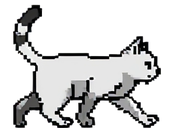
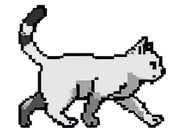
Fix walk animation jitter, scale down cat, fix border positioning
1. Re-aligned all 6 walk frames on consistent body center
   (center-x jitter: 13px → 2px)
2. Added display_scale (0.5) — 174x128 sprite renders at 87x64 on screen,
   higher pixel density = smoother edges
3. Fixed Y positioning: cat feet now sit exactly on window top border
   using display_h instead of raw sprite_h

diff --git a/pet/pet_widget.py b/pet/pet_widget.py
@@ -8,25 +8,33 @@ from pet.state_machine import State, Direction
 class PetCat:
     """Manages cat position, animation frame, and movement.
 
-    This is pure logic — no Qt widgets. The overlay window reads
-    position/frame from here and draws accordingly.
+    display_scale controls how big the cat appears on screen.
+    All position math uses the scaled (display) size.
     """
 
-    WALK_SPEED = 2        # pixels per tick
+    WALK_SPEED = 2
     CHASE_SPEED = 4
     STALK_SPEED = 1
 
-    def __init__(self, sprite_renderer):
+    def __init__(self, sprite_renderer, display_scale=0.5):
         self.renderer = sprite_renderer
+        self.display_scale = display_scale
         self.x = 100
         self.y = 0
         self.frame_index = 0
-        self.ticks_per_frame = 6   # slow down animation (tick = ~33ms at 30fps)
+        self.ticks_per_frame = 6
         self.tick_counter = 0
         self._needs_direction_flip = False
 
+    @property
+    def display_w(self):
+        return int(self.renderer.sprite_w * self.display_scale)
+
+    @property
+    def display_h(self):
+        return int(self.renderer.sprite_h * self.display_scale)
+
     def animation_name(self, state):
-        """Map state enum to sprite animation name."""
         return {
             State.IDLE: "idle",
             State.WALK: "walk",
@@ -36,36 +44,22 @@ class PetCat:
         }.get(state, "idle")
 
     def update(self, state, direction, window_rect, cursor_pos=None):
-        """Move cat and advance animation frame.
-
-        Args:
-            state: current State enum
-            direction: Direction enum (LEFT/RIGHT)
-            window_rect: WindowRect of active window
-            cursor_pos: (x, y) tuple of mouse cursor, or None
-        """
         anim = self.animation_name(state)
 
-        # Advance animation frame
         self.tick_counter += 1
         if self.tick_counter >= self.ticks_per_frame:
             self.tick_counter = 0
             self.frame_index += 1
 
-        # Cat sits on top edge of window
-        self.y = window_rect.top - self.renderer.sprite_h
+        # Cat feet sit on the window's top edge
+        self.y = window_rect.top - self.display_h
 
-        # Movement based on state
         if state == State.WALK:
             self._move_walk(direction, window_rect)
         elif state == State.STALK:
             self._move_stalk(direction, window_rect)
         elif state == State.CHASE and cursor_pos:
             self._move_chase(cursor_pos, window_rect)
-        elif state == State.IDLE:
-            pass  # stay put
-        elif state == State.TRASH_CAN:
-            pass  # stay put, animation plays
 
         return self.get_current_frame(anim)
 
@@ -79,16 +73,16 @@ class PetCat:
 
     def _move_chase(self, cursor_pos, window_rect):
         cx, cy = cursor_pos
-        if cx > self.x + self.renderer.sprite_w // 2:
+        cat_center = self.x + self.display_w // 2
+        if cx > cat_center:
             self.x += self.CHASE_SPEED
-        elif cx < self.x + self.renderer.sprite_w // 2:
+        elif cx < cat_center:
             self.x -= self.CHASE_SPEED
         self._clamp_to_window(window_rect)
 
     def _bounce_at_edges(self, window_rect):
-        """Reverse direction when cat hits window edge."""
         left_bound = window_rect.left
-        right_bound = window_rect.right - self.renderer.sprite_w
+        right_bound = window_rect.right - self.display_w
         if self.x <= left_bound:
             self.x = left_bound
             self._needs_direction_flip = True
@@ -99,19 +93,17 @@ class PetCat:
             self._needs_direction_flip = False
 
     def _clamp_to_window(self, window_rect):
-        """Keep cat within window's top edge bounds."""
-        self.x = max(window_rect.left, min(self.x, window_rect.right - self.renderer.sprite_w))
+        self.x = max(window_rect.left, min(self.x, window_rect.right - self.display_w))
 
     def get_current_frame(self, anim_name):
         return self.renderer.get_frame(anim_name, self.frame_index)
 
     def cursor_distance(self, cursor_pos):
-        """Distance from cat center to cursor."""
         if cursor_pos is None:
             return None
         cx, cy = cursor_pos
-        cat_cx = self.x + self.renderer.sprite_w // 2
-        cat_cy = self.y + self.renderer.sprite_h // 2
+        cat_cx = self.x + self.display_w // 2
+        cat_cy = self.y + self.display_h // 2
         return math.hypot(cx - cat_cx, cy - cat_cy)
 
     @property
@@ -119,9 +111,8 @@ class PetCat:
         return self._needs_direction_flip
 
     def contains_point(self, x, y):
-        """Check if a screen coordinate is within the cat sprite."""
-        return (self.x <= x <= self.x + self.renderer.sprite_w
-                and self.y <= y <= self.y + self.renderer.sprite_h)
+        return (self.x <= x <= self.x + self.display_w
+                and self.y <= y <= self.y + self.display_h)
 
     @property
     def position(self):

diff --git a/pet/overlay.py b/pet/overlay.py
@@ -1,7 +1,7 @@
 """Transparent overlay window that displays the cat on screen."""
 
 from PyQt6.QtWidgets import QWidget, QApplication
-from PyQt6.QtCore import Qt, QTimer
+from PyQt6.QtCore import Qt, QTimer, QRect
 from PyQt6.QtGui import QPainter, QTransform
 
 from pet.state_machine import StateMachine, State, Direction
@@ -81,7 +81,9 @@ class PetOverlay(QWidget):
         if self.state_machine.direction.value < 0:
             frame = frame.transformed(QTransform().scale(-1, 1))
 
-        painter.drawPixmap(self.cat.position, frame)
+        # Draw full-res pixmap scaled down to display size
+        target = QRect(self.cat.x, self.cat.y, self.cat.display_w, self.cat.display_h)
+        painter.drawPixmap(target, frame)
         painter.end()
 
     def mousePressEvent(self, event):
